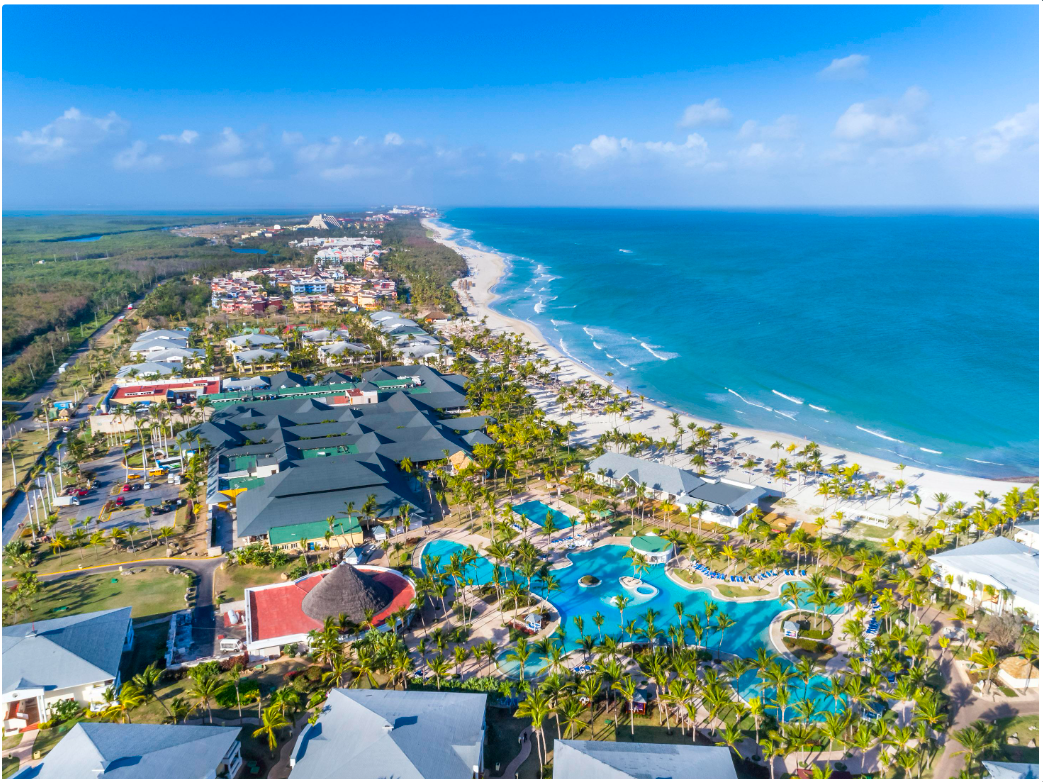
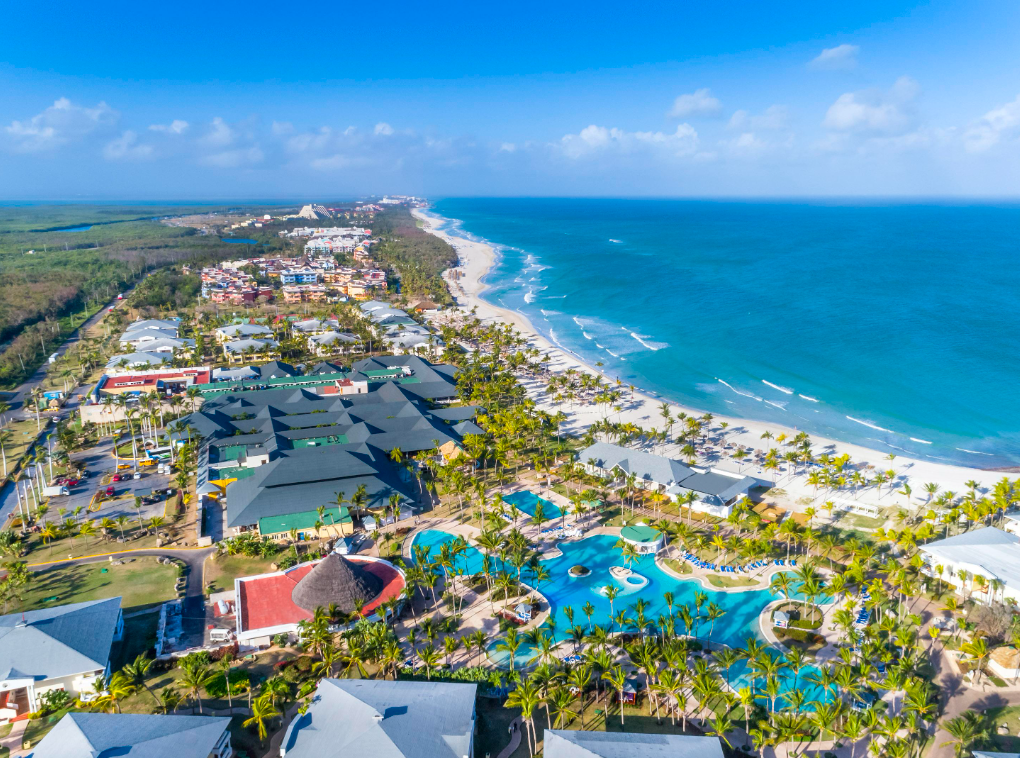
añadidas nuevas fotos

diff --git a/src/Cities/controller/citiesData.ts b/src/Cities/controller/citiesData.ts
@@ -73,8 +73,8 @@ export const citiesData: CityInterface[] = [
         population: 211925,
         province: "Villa Clara",
         tourismRating: 7.5,
-        reference: "",
-        imageUrl: "",
+        reference: "https://interjet.com.mx/santa-clara-cuba-naturaleza-aventura-y-sostenibilidad/",
+        imageUrl: "SantaClara.png",
         temperatureRange: ["24°C", "28°C"],
         foundedYear: 1689,
         shortDescription: "Ciudad histórica conocida por su vínculo con el Che Guevara.",
@@ -86,8 +86,8 @@ export const citiesData: CityInterface[] = [
         population: 287881,
         province: "Holguín",
         tourismRating: 8,
-        reference: "",
-        imageUrl: "",
+        reference: "https://www.sunwing.ca/en/destinations/cuba/holguin",
+        imageUrl: "Holguin.png",
         temperatureRange: ["25°C", "30°C"],
         foundedYear: 1720,
         shortDescription: "Conocida como la Ciudad de los Parques, con belleza natural y cultura.",
@@ -99,8 +99,8 @@ export const citiesData: CityInterface[] = [
         population: 27000,
         province: "Pinar del Río",
         tourismRating: 8.5,
-        reference: "",
-        imageUrl: "",
+        reference: "https://dandovueltasfotos.com/el-valle-de-vinales-cuba/",
+        imageUrl: "Vinales.jpg",
         temperatureRange: ["24°C", "28°C"],
         foundedYear: 1879,
         shortDescription: "Famosa por sus paisajes de mogotes y su tabaco de calidad.",

diff --git a/src/Cities/view/City.tsx b/src/Cities/view/City.tsx
@@ -61,7 +61,7 @@ export function City({city}:Props){
       }`} >
             <div className="flex w-auto md:w-1/2 max-h-96 rounded-xl">
                 <img 
-                className="flex object-contain rounded-xl"
+                className="flex object-cover rounded-xl"
                  src={url}
                 alt="It is not posibble to view the photo" />
             </div>
